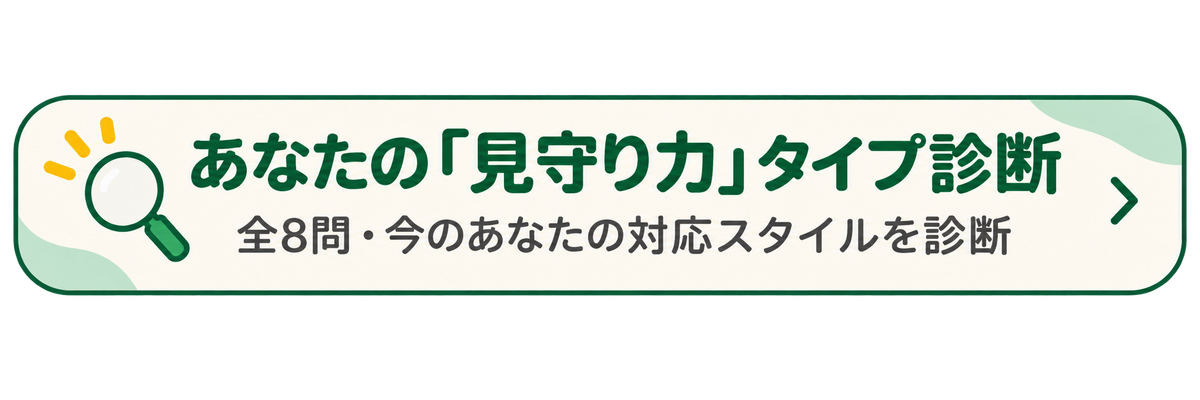
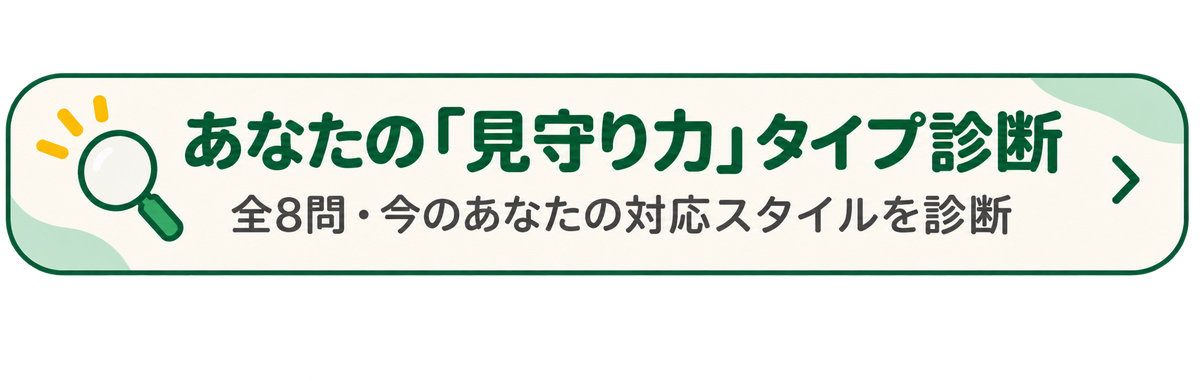
TOPバナー画像の上下の余白をトリミング
mimamori-top-banner.pngに含まれていた透明部分の余白（特に上側）をアルファ
チャンネルのbboxでクロップしてから再配置。表示サイズも実寸（1200x381）に合わせた。

Claude-Session: https://claude.ai/code/session_01GrtDLzAppJEJnPqwWn5bqi

Changed region(s): [[0.0, 0.1732, 1.0, 0.6929], [0.0308, 0.6352, 0.9867, 0.7507]]

diff --git a/components/MimamoriShindanTeaser.tsx b/components/MimamoriShindanTeaser.tsx
@@ -12,7 +12,7 @@ export default function MimamoriShindanTeaser() {
         src="/assets/shindan/mimamori-top-banner.png"
         alt="あなたの「見守り力」タイプ診断　全8問・今のあなたの対応スタイルを診断"
         width={1200}
-        height={400}
+        height={381}
         style={{ width: '100%', height: 'auto', display: 'block' }}
       />
     </Link>
